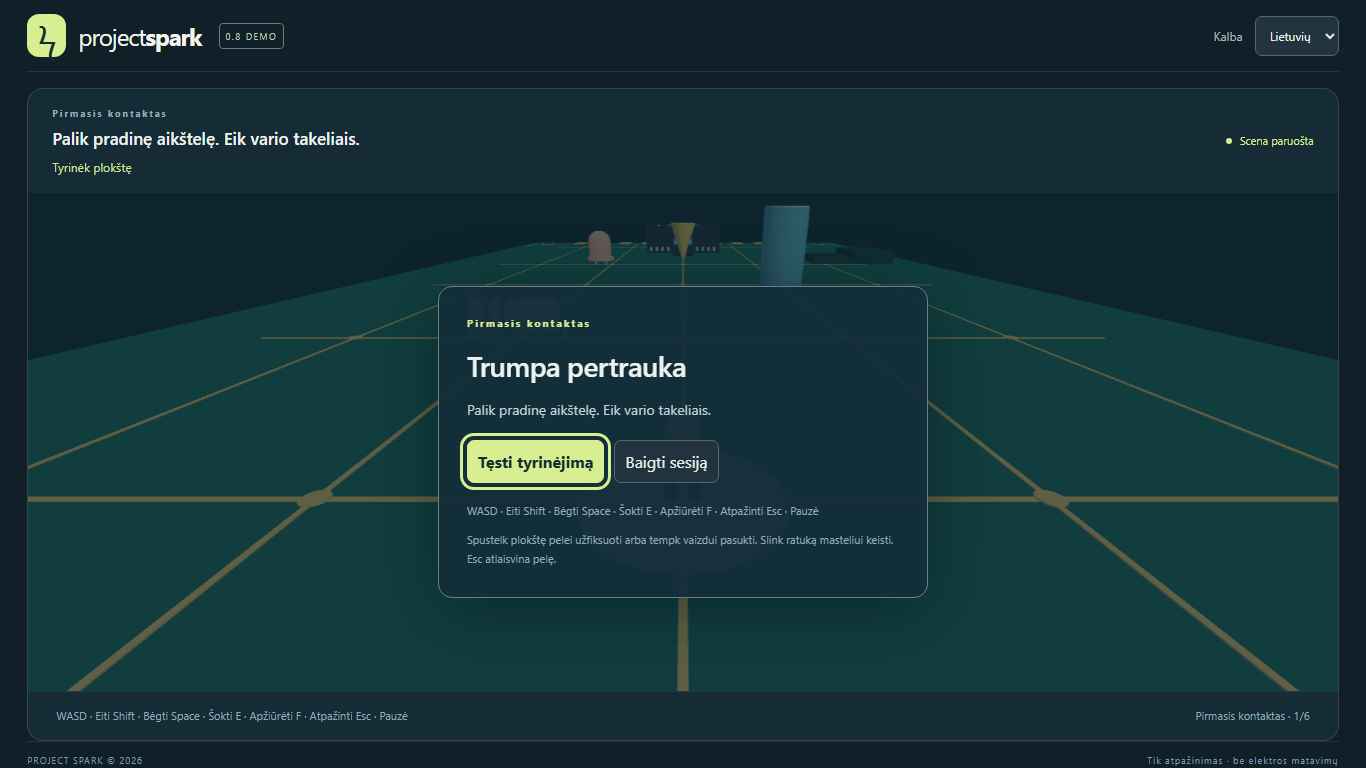
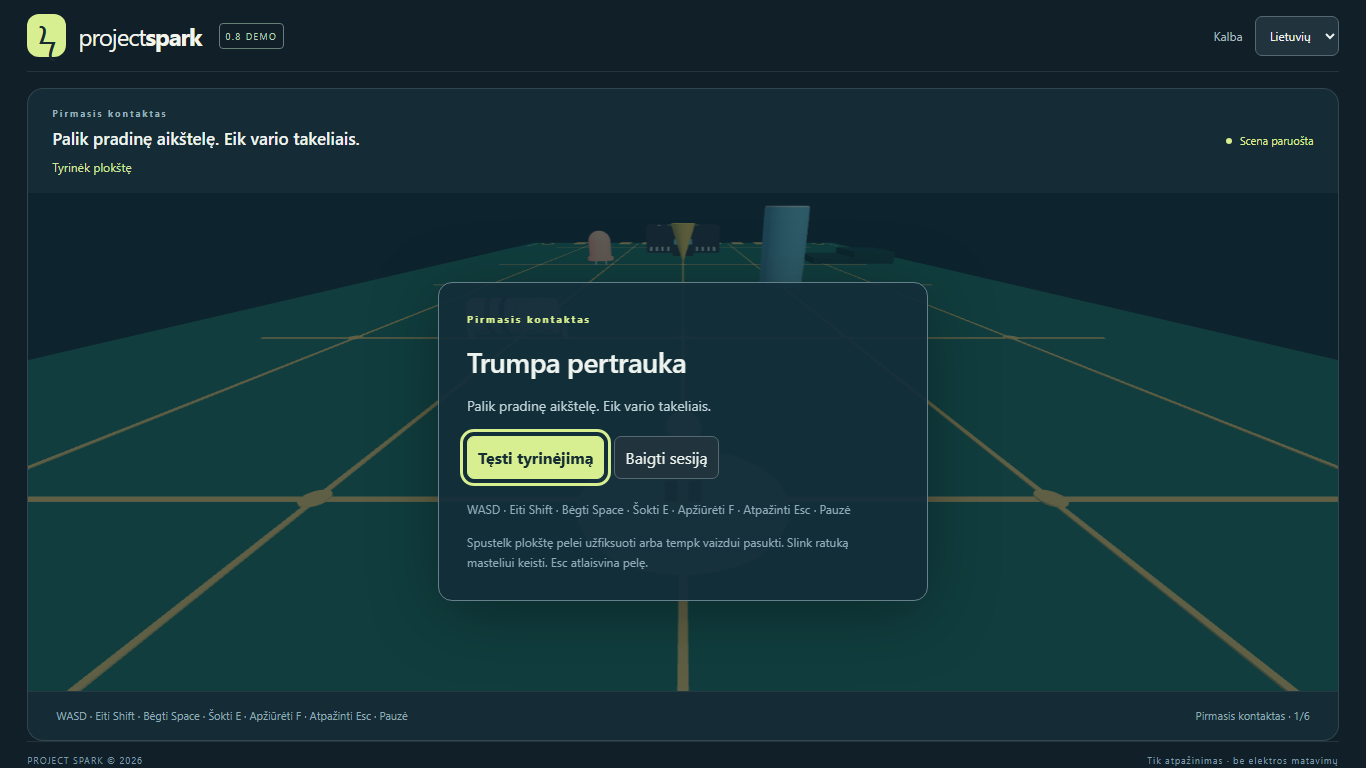
Record M8 release evidence and demo review handoff

Changed region(s): [[0.3382, 0.4062, 0.6457, 0.75], [0.3382, 0.3438, 0.6764, 0.375]]

diff --git a/tests/demo.spec.ts b/tests/demo.spec.ts
@@ -17,6 +17,9 @@ test("demo title gives visible start, controls and honest practice/server guidan
     "ready",
   );
   await expect(
+    page.getByRole("region", { name: "Welcome, engineer.", exact: true }),
+  ).toContainText("WASD");
+  await expect(
     page.getByRole("button", { name: "Begin exploration", exact: true }),
   ).toBeInViewport();
   await expect(page.locator(".intro")).toContainText("No saved progress");

diff --git a/docs/VALIDATION-M8.md b/docs/VALIDATION-M8.md
@@ -21,7 +21,9 @@ Presentation review found duplicated title copy pushed Start below the 720p fold
 - doctor:project: Node 24.19.0, pnpm 11.25.0, Git and both browser binaries found. Binary presence does not prove launch.
 - First pnpm verify: lint, typecheck, 90 unit/domain/server tests, production packaging and 3 release integration tests passed. All 15 Chromium checks passed, including new EN/LT 1280×720/1366×768 title/controls/no-external-request flow, full real-input episode through activation/replay, programming, two-client repair/reconnect, context loss and lifecycle cleanup. All 15 Windows Firefox launches failed with the existing spawn UNKNOWN limitation; full local verification is not green.
 - Existing 390×844 responsive menus, 1280×720 gameplay and 1920×1080 frame observation remain covered. Tests never inject progression or teleport the player.
-- A final rerun was stopped after full trace screenshots/DOM snapshots delayed held-key commands enough to cause oscillation approaching R1. The real movement assertions remain unchanged; failure tracing now records actions/errors without those expensive captures. A fresh full verifier and GitHub final-head CI are pending delivery; update actual outcomes below.
+- A rerun was stopped after full trace screenshots/DOM snapshots delayed held-key commands enough to cause oscillation approaching R1. The real movement assertions remain unchanged; failure tracing now records actions/errors without those expensive captures. Final lighter-trace pnpm verify again passes lint/types, all 90 unit/domain/server tests, production packaging, all 3 release cases and all 15 Chromium flows (3.6-minute browser stage); all 15 Windows Firefox launches retain spawn UNKNOWN. No full local pass is claimed. Final software frame median/p95 199.9/200.1 ms; startup1160 ms.
+- Initial M8 CI [39299684771](https://github.com/ernismorka/project-spark/actions/runs/39299684771) passed on a5c609f: Linux full verify, 90 unit/domain/server tests, 3 release cases and all 30 browser checks (15 Chromium + 15 Firefox), plus independent Windows packaging/release/actual launcher checks. The prior merged-main initial-renderer failure did not recur. Final head is tracked in PR #10; earlier-head success does not replace its final check.
+- After the final title landmark refinement: lint/typecheck, production repackage, all 3 release integration cases and targeted Chromium demo flow pass (1/1). Actual Windows launcher startup/cleanup also passes from a copied folder explicitly containing spaces; repeat standalone startup working set51,462,144 bytes. Refreshed captures inspected. Final reviewed commit and final-head CI run/results are maintained in [PR #10](https://github.com/ernismorka/project-spark/pull/10), which remains unmerged; CI is required before approval.
 
 ## Practical observations, not sustained performance certification
 
@@ -33,6 +35,6 @@ Ordinary local Chromium suite uses SwiftShader: observed 90-frame median/p95 200
 
 ## Visual evidence and deferred human checks
 
-docs/screenshots/m8-title-en.png, m8-title-lt.png, m8-controls-lt.png, m8-controller-en.png, m8-complete-lt.png and m8-active-world.png are real browser captures. Title, controls, commissioning, completion and world images are inspected for clipped text, focus and clear state. Final presentation captures will be refreshed after the final gate.
+docs/screenshots/m8-title-en.png, m8-title-lt.png, m8-controls-lt.png, m8-controller-en.png, m8-complete-lt.png and m8-active-world.png are real browser captures. Refreshed after final presentation changes and inspected for clipped text, focus and clear state. Both titles retain visible Start at tested desktop sizes; narrow LT completion shows a primary Replay and the corrected episode footer. No visual defect requiring a redesign was found.
 
 DEMO_START.md is the packaged startup and automated smoke procedure; DEMO_LIMITATIONS.md records runtime/browser/pilot/save/model limits. PLAYTEST.md consolidates target-age fun, controls/camera, learning clarity, difficulty, native copy, accessibility, two-human cooperation and representative sustained hardware/heap measurements. The owner need not perform these during implementation. They remain unverified, separate from automated technical acceptance.

diff --git a/docs/EXECUTION_PLAN.md b/docs/EXECUTION_PLAN.md
@@ -2,6 +2,10 @@
 
 M8 Playable Demo Release is authorized on merged M7 PR #9, main 791220e. Branch codex/m8-playable-demo. Scope and measurable acceptance recorded before implementation in M8_SCOPE.md. No M9, public release/deployment or automatic merge.
 
-Completed: required document/baseline inspection, branch/scope, doctor (Node24.19.0/pnpm11.25.0 and both browser binaries), initial launcher/package/release checks, concise localized title and separate-pilot guidance. M7 merged-main CI 39295631291 failed one Firefox initial renderer readiness case (error instead of ready); other 27 browser checks passed. Investigate recurrence during M8 gates rather than claiming a green baseline.
+Implementation/local acceptance complete: baseline/doc inspection, scope, self-review/fixes, Windows-friendly versioned production folder, EN/LT title/controls/completion clarity, release/security/start/stop/reproducibility tests, startup/limitations/smoke/playtest documentation, actual Windows launcher checks, inspected refreshed screenshots, short hardware/heap observations with explicit limits. No solver/interpreter/domain/pilot changes or dependencies.
 
-Remaining: complete release regression checks, full pnpm verify and both-browser CI, inspect complete real-input episode/title/controls/completion captures, performance/lifecycle observations, self-review/fixes, document actual evidence, commit/push/open PR and check final-head CI. Human learning/usability/assistive technology and representative sustained hardware profiling remain deferred in PLAYTEST.md, not routine blockers. Windows Firefox spawn UNKNOWN remains distinct from gameplay failures; keep both browsers enabled.
+Evidence: doctor passes. Final lighter-trace pnpm verify passes lint/types, 90 unit/domain/server tests, packaging, 3 release cases and all15 Chromium flows; all15 local Firefox launches fail at known Windows spawn UNKNOWN. Full local suite is not green. Full tracing distorted held-key timing in an earlier stopped run; lighter action/error tracing preserves the same assertions. After final title landmark refinement, lint/types/repackage, all3 release cases and targeted Chromium title/controls/EN/LT input flow pass1/1. Actual Windows launcher checks pass, including copied path with spaces and owned-process cleanup.
+
+Initial M8 CI39299684771 on a5c609f passes Linux full verify/all30 browser checks and independent Windows release/launcher job. Prior merged-main Firefox renderer initialization failure did not recur. Final reviewed head and exact CI run/results are maintained in PR #10: https://github.com/ernismorka/project-spark/pull/10. The final-head CI gate must pass before approval; an earlier-head pass is not a substitute. VALIDATION-M8.md records exact local evidence, captures, hardware/software separation and deferred requirements.
+
+Delivery: PR #10 open against main, unmerged. Resume by inspecting its final-head CI/review; address only M8 fixes. Owner review/merge remains explicit. M9 unauthorized. Human consolidated learning/usability/accessibility/cooperation and sustained representative hardware/heap checks are deferred in PLAYTEST.md, not routine implementation blockers. No scheduled runner/public release was created.

diff --git a/docs/DEVELOPMENT_STATUS.md b/docs/DEVELOPMENT_STATUS.md
@@ -1,5 +1,9 @@
 # Development status
 
-M7 PR #9 merged as 791220e; M8 Playable Demo Release explicitly authorized. Branch codex/m8-playable-demo; scope/acceptance in M8_SCOPE.md. Existing solver/interpreter/domain/pilot APIs preserved; no new gameplay systems, public release or M9.
+M7 PR #9 merged as 791220e. M8 Playable Demo Release is implemented and locally validated on codex/m8-playable-demo; scope/acceptance in M8_SCOPE.md. PR #10: https://github.com/ernismorka/project-spark/pull/10, open and unmerged. No public release/deployment or M9.
 
-In progress: dependency-free local production server, versioned reproducible package/inventory, Windows launcher, EN/LT title/start/reset/controls guidance and release documentation/tests. See EXECUTION_PLAN.md for remaining acceptance/delivery. Merged-main CI failure (one Firefox initial WebGL error; other27 browser checks pass) is being tracked as release baseline evidence. No owner intervention needed. Manual consolidated playtest remains deferred.
+Version0.8.0-demo.1 packages the existing production episode with a dependency-free loopback static server, actual tested Windows launcher, SHA-256/provenance inventory, EN/LT title/start/reset/control guidance and startup/limitations/smoke/playtest documents. Players need Node24+ and a WebGL2 desktop browser, no pnpm/Git/project dependencies; cooperative server stays separate. Existing domain/solver/interpreter/pilot APIs and regression coverage preserved. Production folder is reproduced with pnpm demo:package.
+
+Final full local verify: lint/types, 90 unit/domain/server tests, production packaging, 3 release cases and15 Chromium checks pass;15 Windows Firefox launches fail at documented spawn UNKNOWN. Final title-landmark-only follow-up passes lint/types/repackage, all3 release cases and targeted Chromium1/1. Windows .cmd launcher checks pass from a copied path containing spaces; exact owned processes clean up. Initial M8 CI39299684771 passes both browser projects (30 checks), all90 unit/integration and3 release cases, plus independent Windows launcher/release job. Final reviewed head and its authoritative CI run/results are recorded in PR #10; final-head CI is mandatory before approval.
+
+Reviewed refreshed screenshots and full real-input episode/replay; measured short AMD frame/startup and20-cycle heap observations. No sustained performance or leak-free certification. See EXECUTION_PLAN.md and VALIDATION-M8.md. Next session: inspect PR #10 final-head CI/review and address only M8 fixes. Do not merge or start M9 without approval. Manual consolidated playtesting remains deferred; no owner intervention is currently needed.
